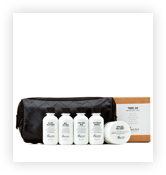
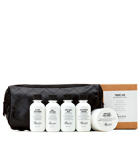
Заменены картинки png

Changed region(s): [[0.0, 0.5369, 1.0, 0.8859]]

diff --git a/catilog-shop.html b/catilog-shop.html
@@ -98,37 +98,37 @@
       </form>
       <div class="shop-container">
         <div class="product-container">
-          <img src="product-shop-1.png" width="220" height="166" alt="Набор для путешествий «Baxter Of California»">
+          <img src="product-shop-1.jpg"width="220" height="165" alt="Набор для путешествий «Baxter Of California»">
           <b>Набор для путешествий «Baxter Of California»</b>
           <p> 2 900 РУБ.</p>
           <a href="#"> Купить</a>
         </div>
        <div class="product-container">
-         <img src="product-shop-2.png" width="220" height="166" alt="Увлажняющий кондиционер «Baxter Of California»">
+         <img src="product-shop-2.jpg" width="220" height="165" alt="Увлажняющий кондиционер «Baxter Of California»">
          <b>Увлажняющий кондиционер «Baxter Of California»</b>
          <p> 750 РУБ.</p>
          <a href="#"> Купить</a>
       </div>
       <div class="product-container">
-        <img src="product-shop-3.png" width="220" height="166" alt="Гель для волос «Suavecito»">
+        <img src="product-shop-3.jpg" width="220" height="165" alt="Гель для волос «Suavecito»">
         <b>Гель для волос «Suavecito»</b>
         <p> 290 РУБ.</p>
         <a href="#"> Купить</a>
       </div>
       <div class="product-container">
-        <img src="product-shop-4.png" width="220" height="166" alt="Глина для укладки волос «American Crew»">
+        <img src="product-shop-4.jpg" width="220" height="165" alt="Глина для укладки волос «American Crew»">
         <b>Глина для укладки волос «American Crew»</b>
         <p> 500 РУБ.</p>
         <a href="#"> Купить</a>
       </div>
       <div class="product-container">
-        <img src="product-shop-5.png" width="220" height="166" alt="Гель для волос «American Crew»">
+        <img src="product-shop-5.jpg" width="220" height="165" alt="Гель для волос «American Crew»">
         <b>Гель для волос «American Crew»</b>
         <p> 300 РУБ.</p>
         <a href="#"> Купить</a>
      </div>
      <div class="product-container">
-       <img src="product-shop-6.png" width="220" height="166" alt="Набор для бритья «Baxter Of California»">
+       <img src="product-shop-6.jpg" width="220" height="165" alt="Набор для бритья «Baxter Of California»">
        <b>Набор для бритья «Baxter Of California»</b>
        <p> 3 900 РУБ.</p>
        <a href="#"> Купить</a>

diff --git a/css/style.css b/css/style.css
@@ -1,8 +1,11 @@
 body {
-  font-family: PT Sans Narrow;
+  font-family: "PT Sans";
   font-size: 14px;
-  color: #000000;
+  line-height: 24px;
+  
+
 }
-h2 {
+h1 {
   font-size: 30px;
+  line-height: 42px;
 }
